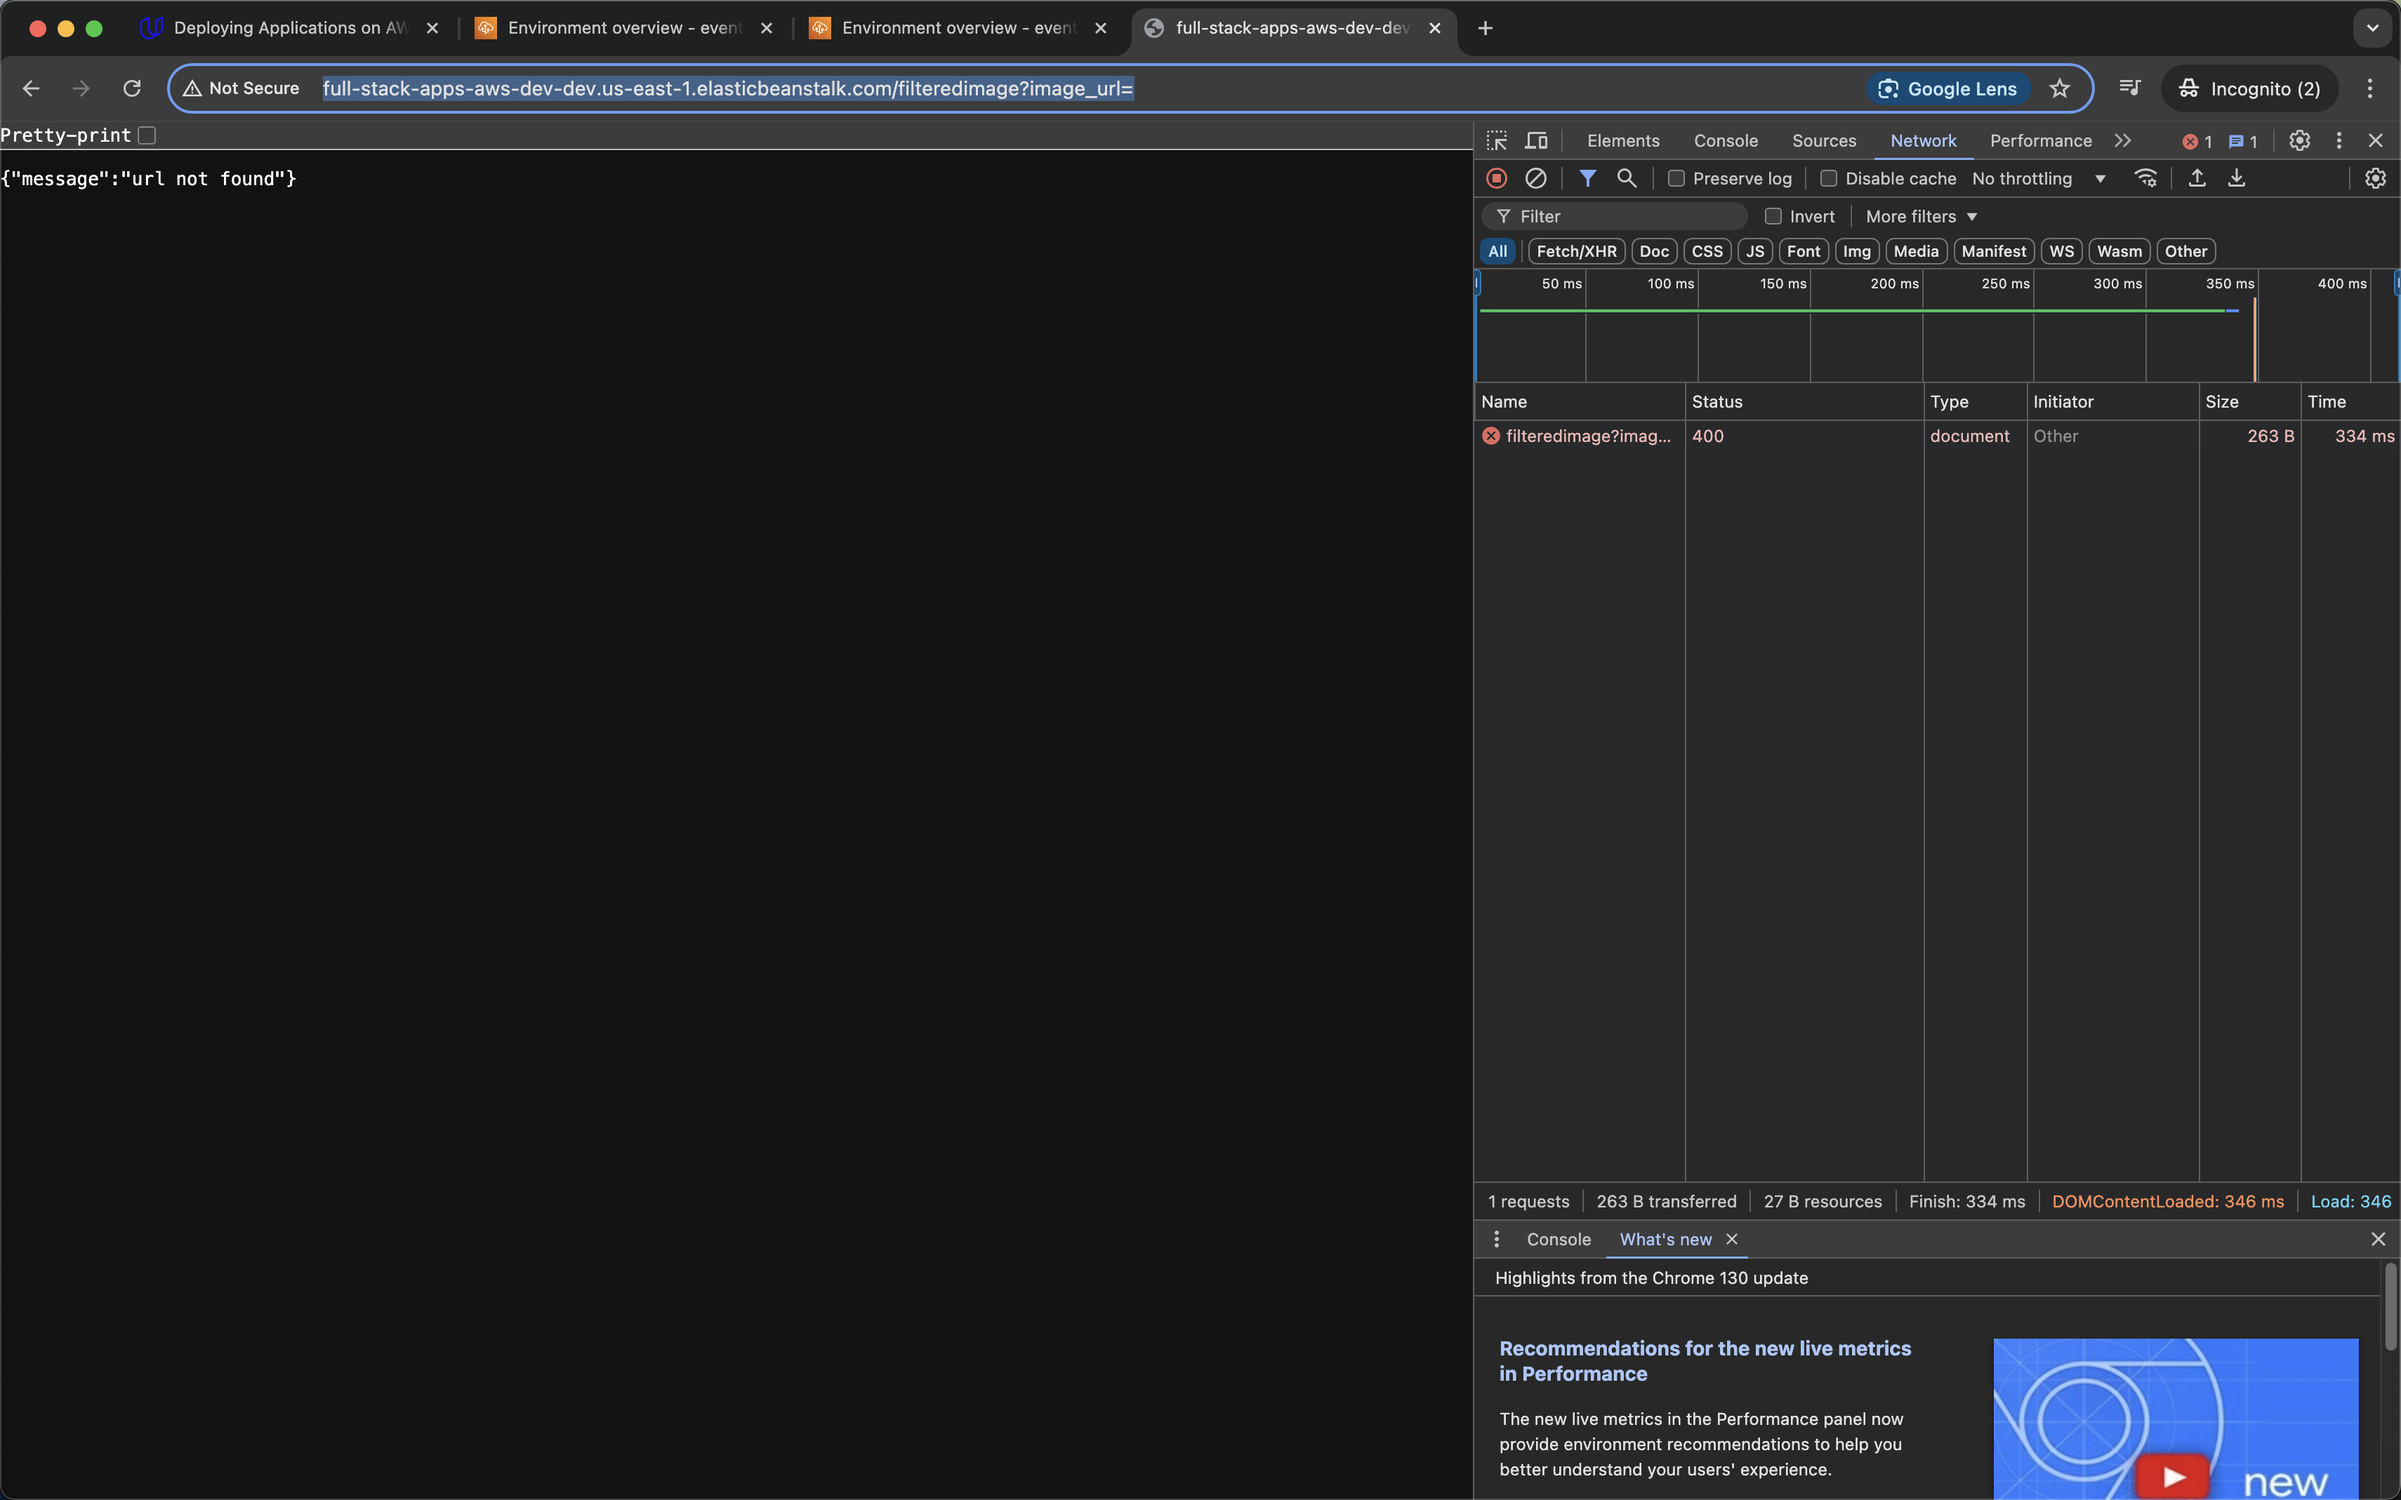
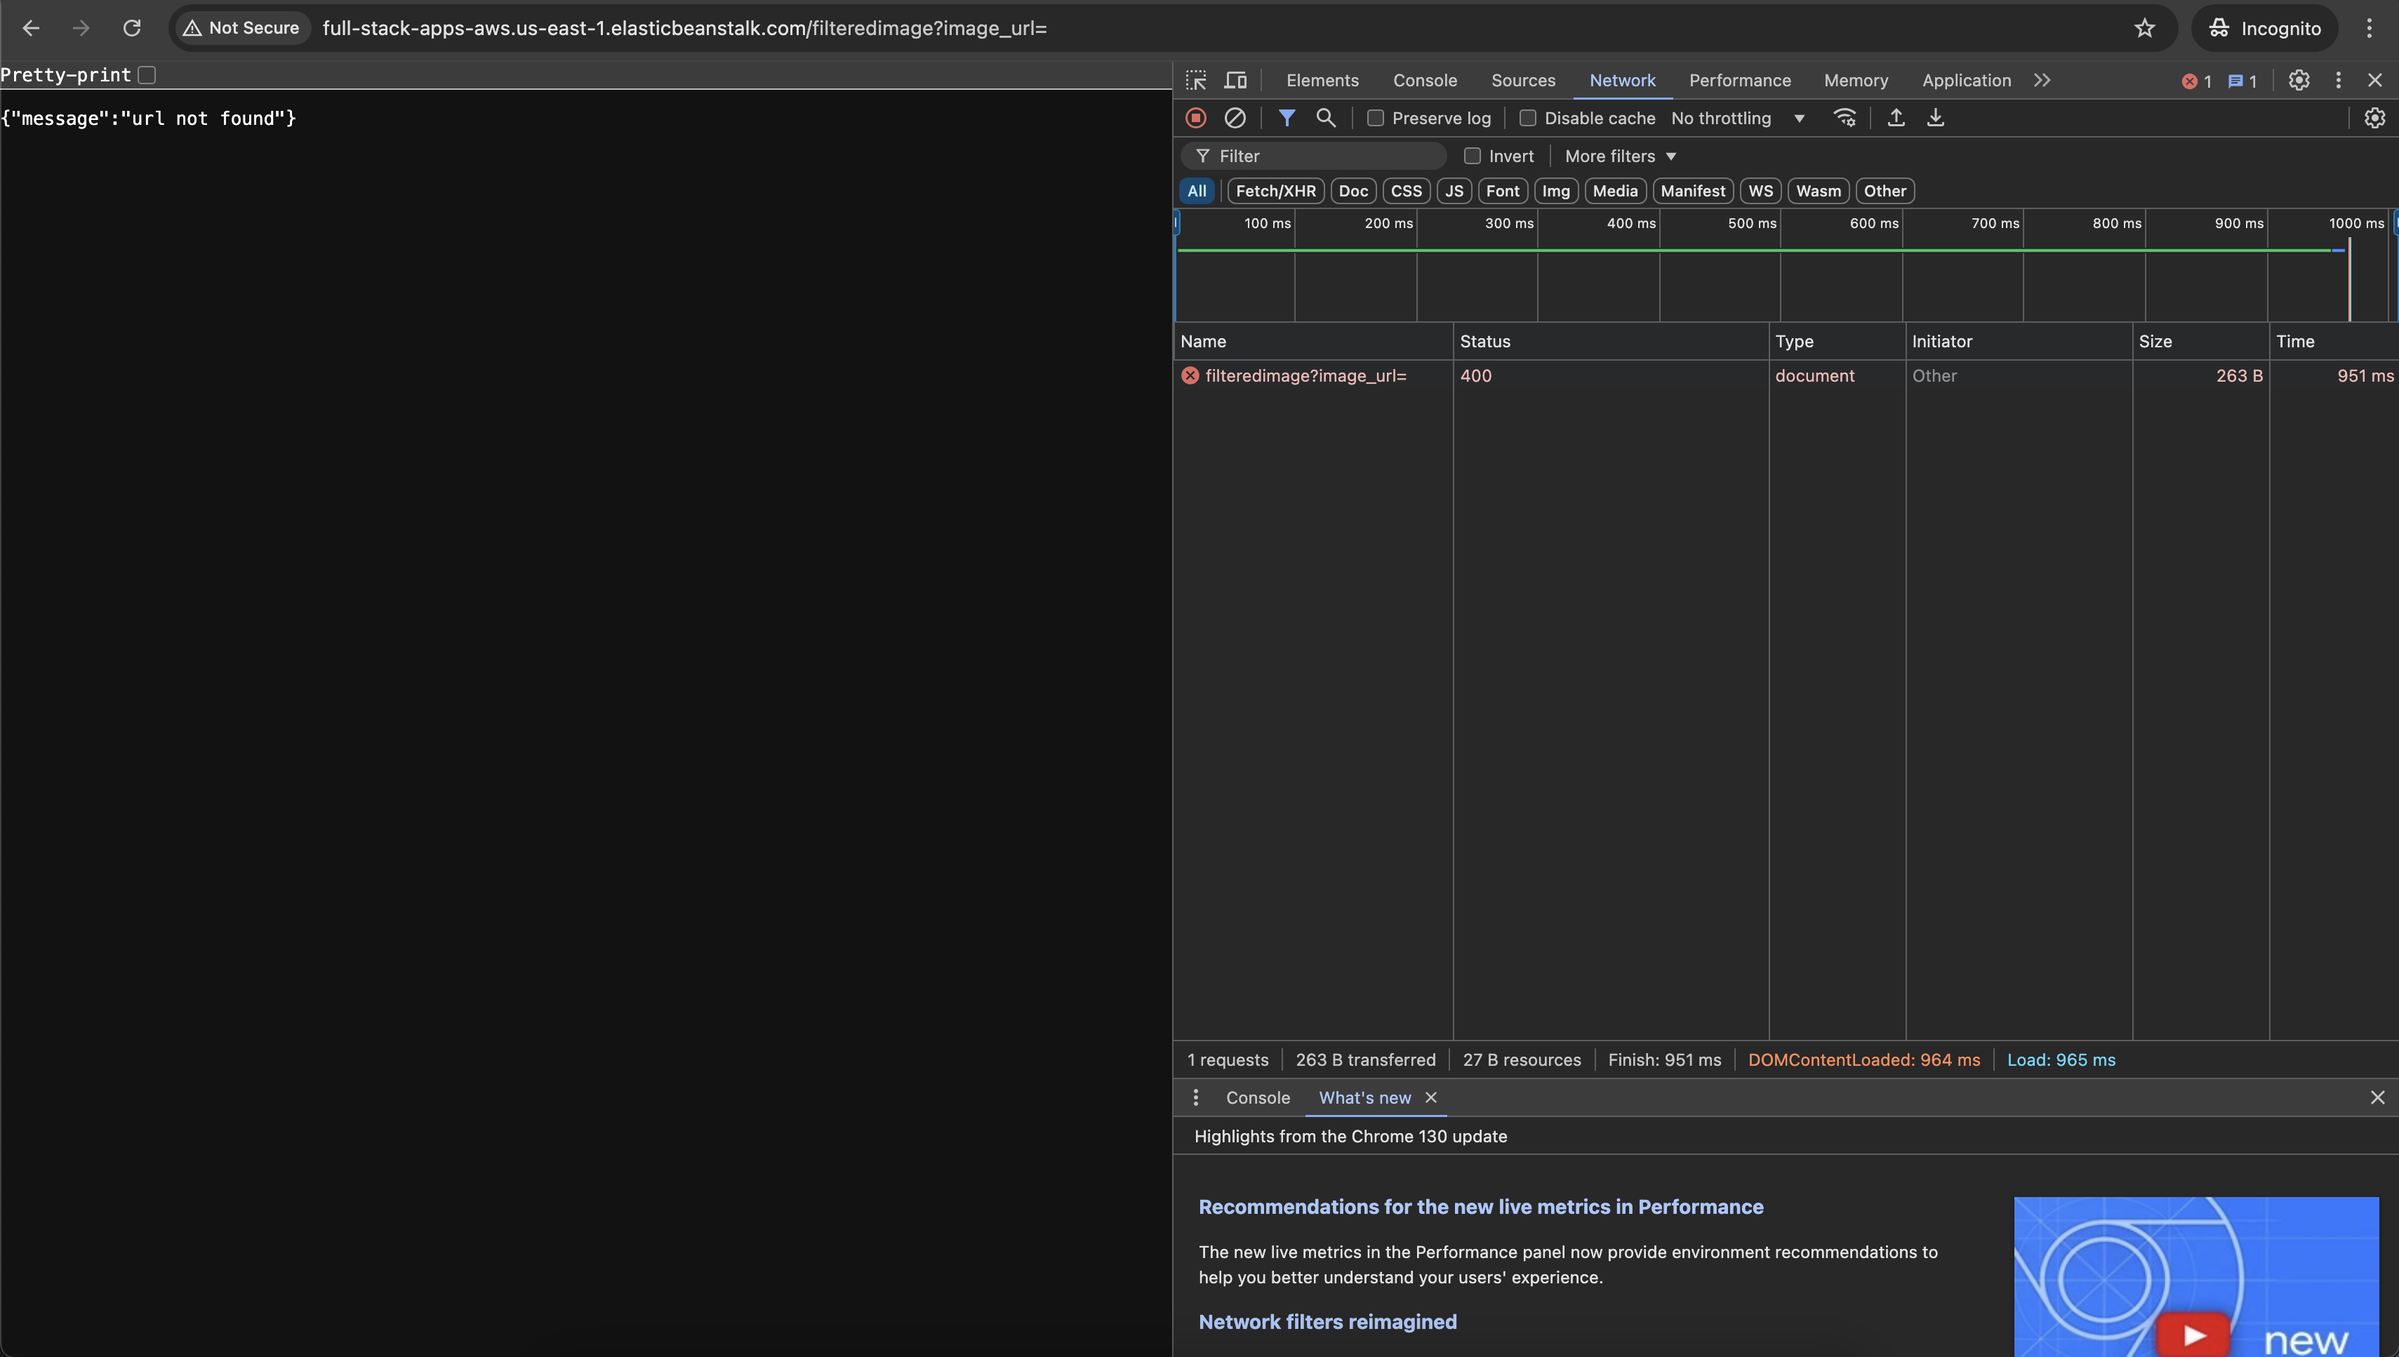
Update link for new application and evidence

Changed region(s): [[0.0, 0.0, 1.0, 0.3102], [0.4652, 0.7446, 1.0, 1.0], [0.0, 0.9928, 0.4962, 1.0]]

diff --git a/README.md b/README.md
@@ -25,6 +25,6 @@ Successful URL responses should have a 200 code. Ensure that you include error c
 
 
 ## URL for webapp
-Success Case (status 200): http://full-stack-apps-aws-dev-dev.us-east-1.elasticbeanstalk.com/filteredimage?image_url=https://www.princeton.edu/sites/default/files/styles/scale_1440/public/images/2022/02/KOA_Nassau_2697x1517.jpg
-Fail Case (status 400): http://full-stack-apps-aws-dev-dev.us-east-1.elasticbeanstalk.com/filteredimage?image_url=
-Fail Case (status 500): http://full-stack-apps-aws-dev-dev.us-east-1.elasticbeanstalk.com/filteredimage?image_url=h
+Success Case (status 200): http://full-stack-apps-aws.us-east-1.elasticbeanstalk.com/filteredimage?image_url=https://upload.wikimedia.org/wikipedia/commons/b/bd/Golden_tabby_and_white_kitten_n01.jpg
+Fail Case (status 400): http://full-stack-apps-aws.us-east-1.elasticbeanstalk.com/filteredimage?image_url=
+Fail Case (status 500): http://full-stack-apps-aws.us-east-1.elasticbeanstalk.com/filteredimage?image_url=h
